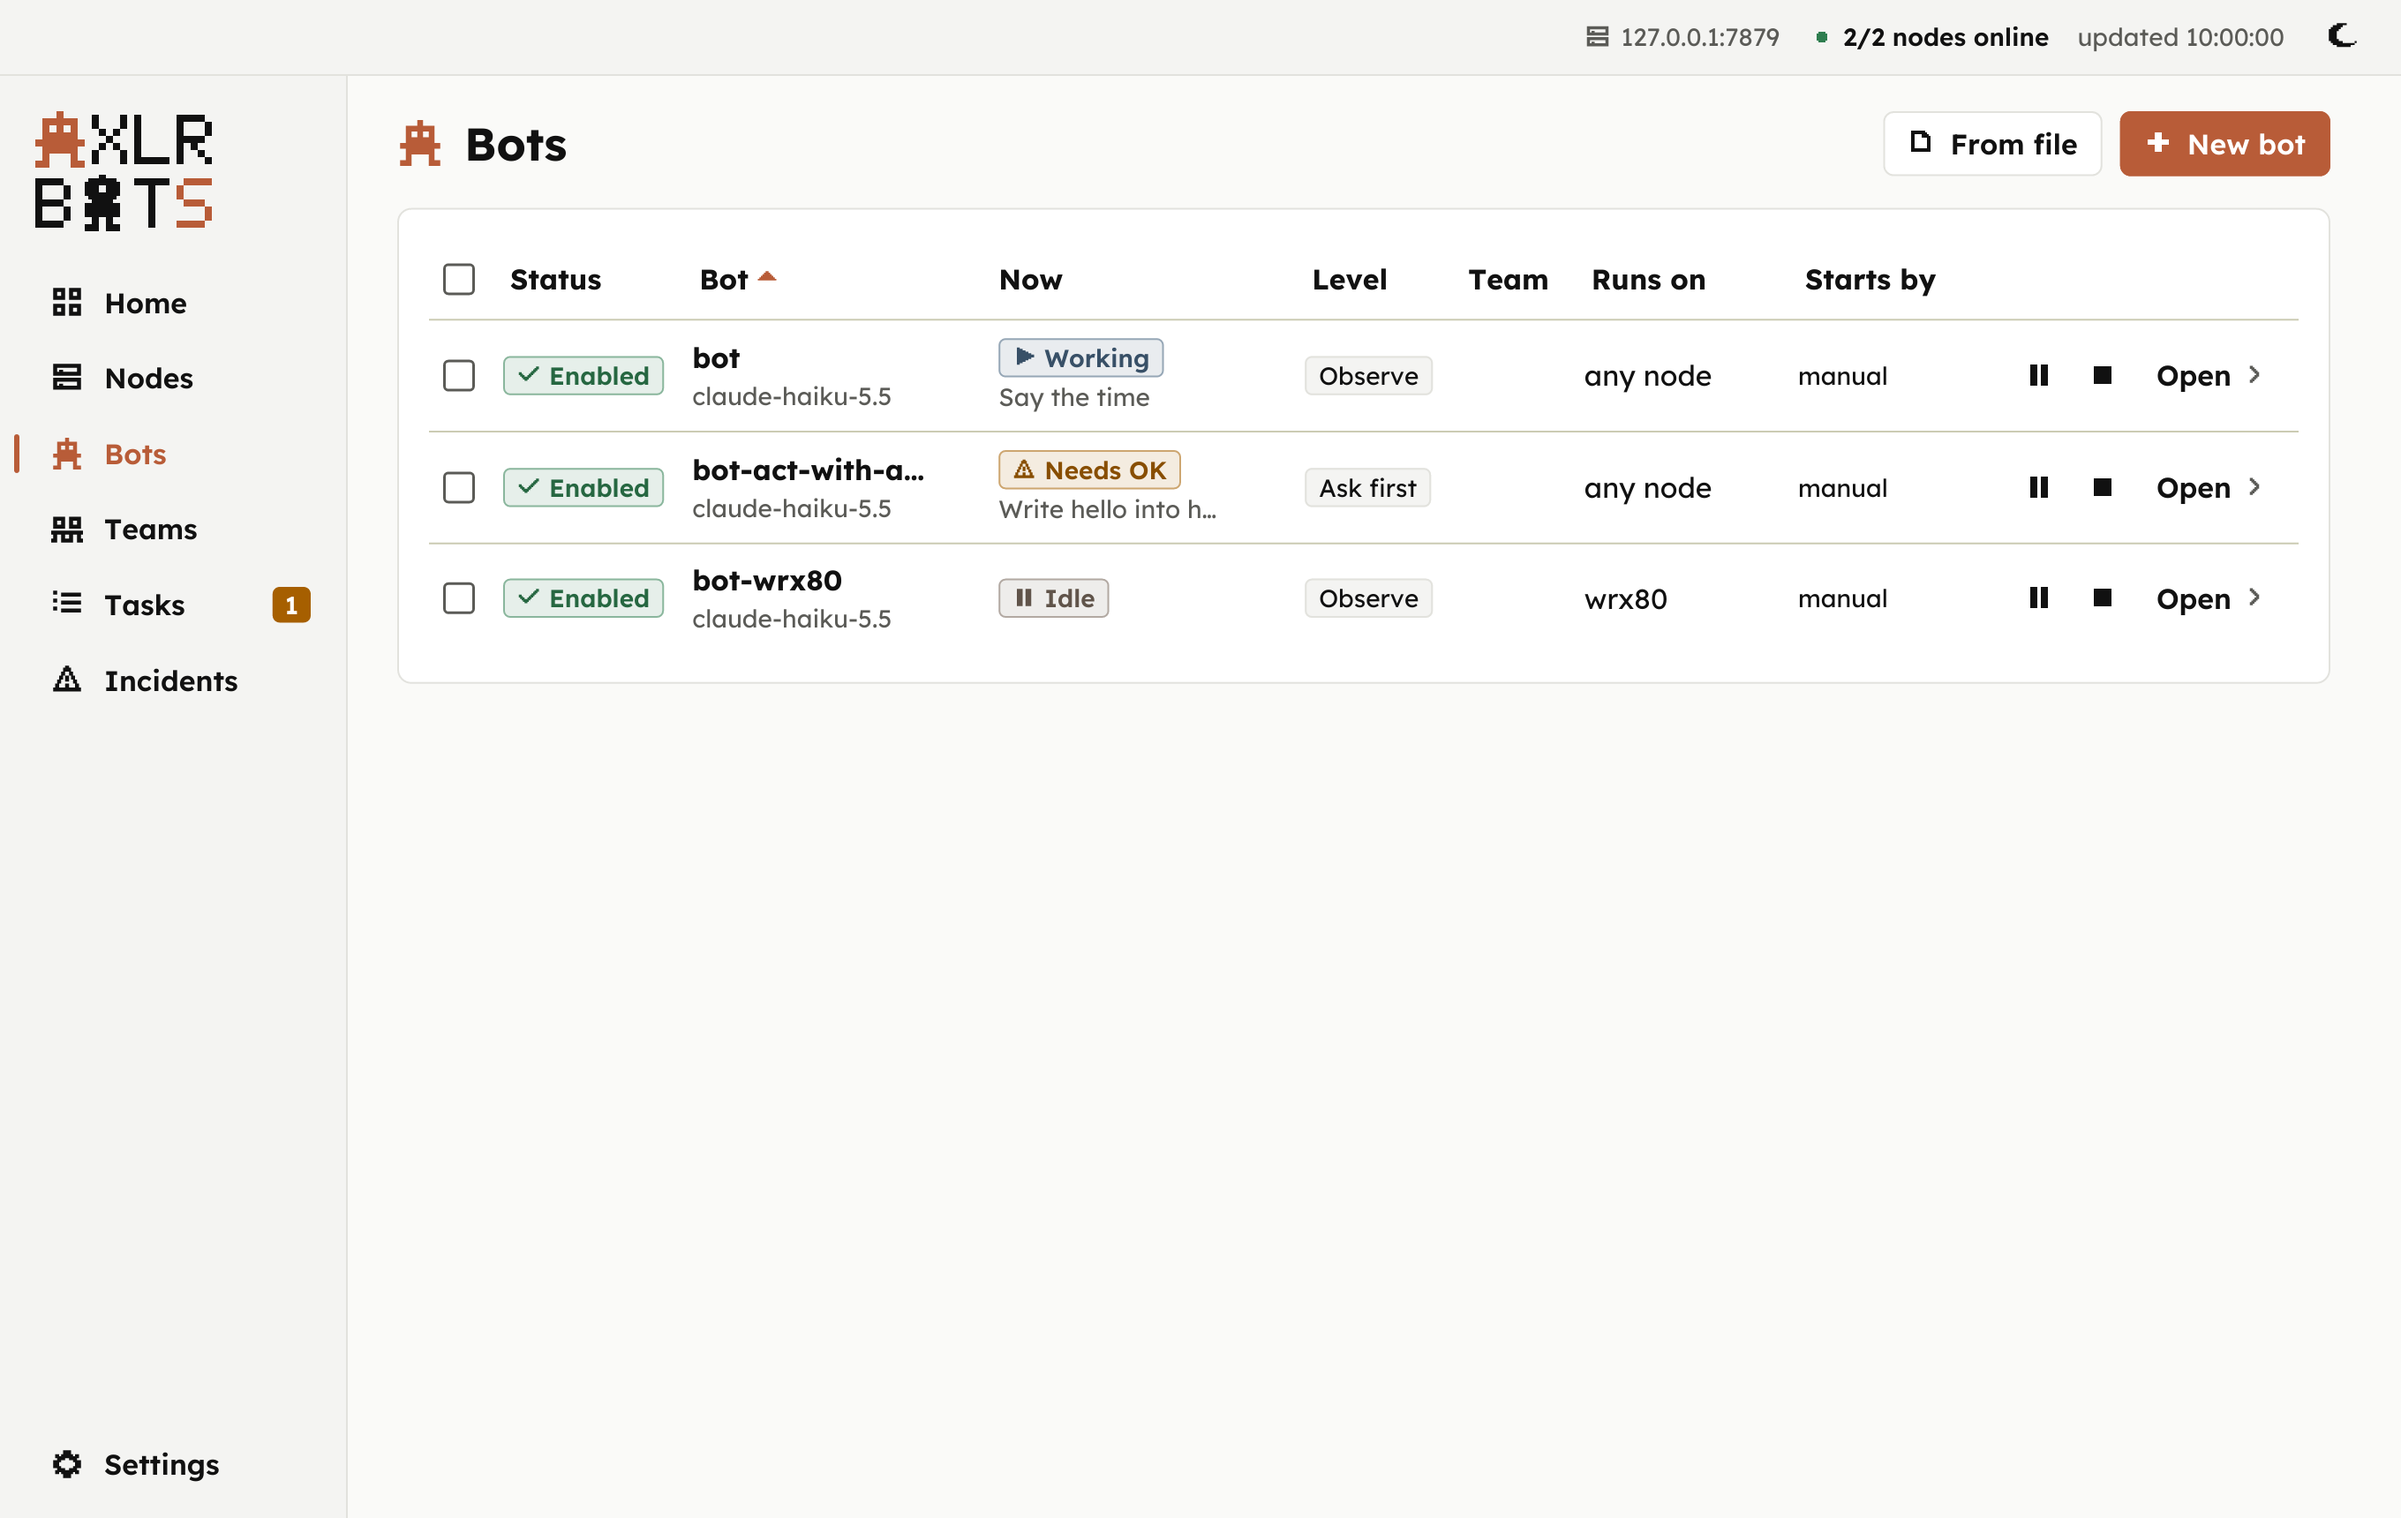
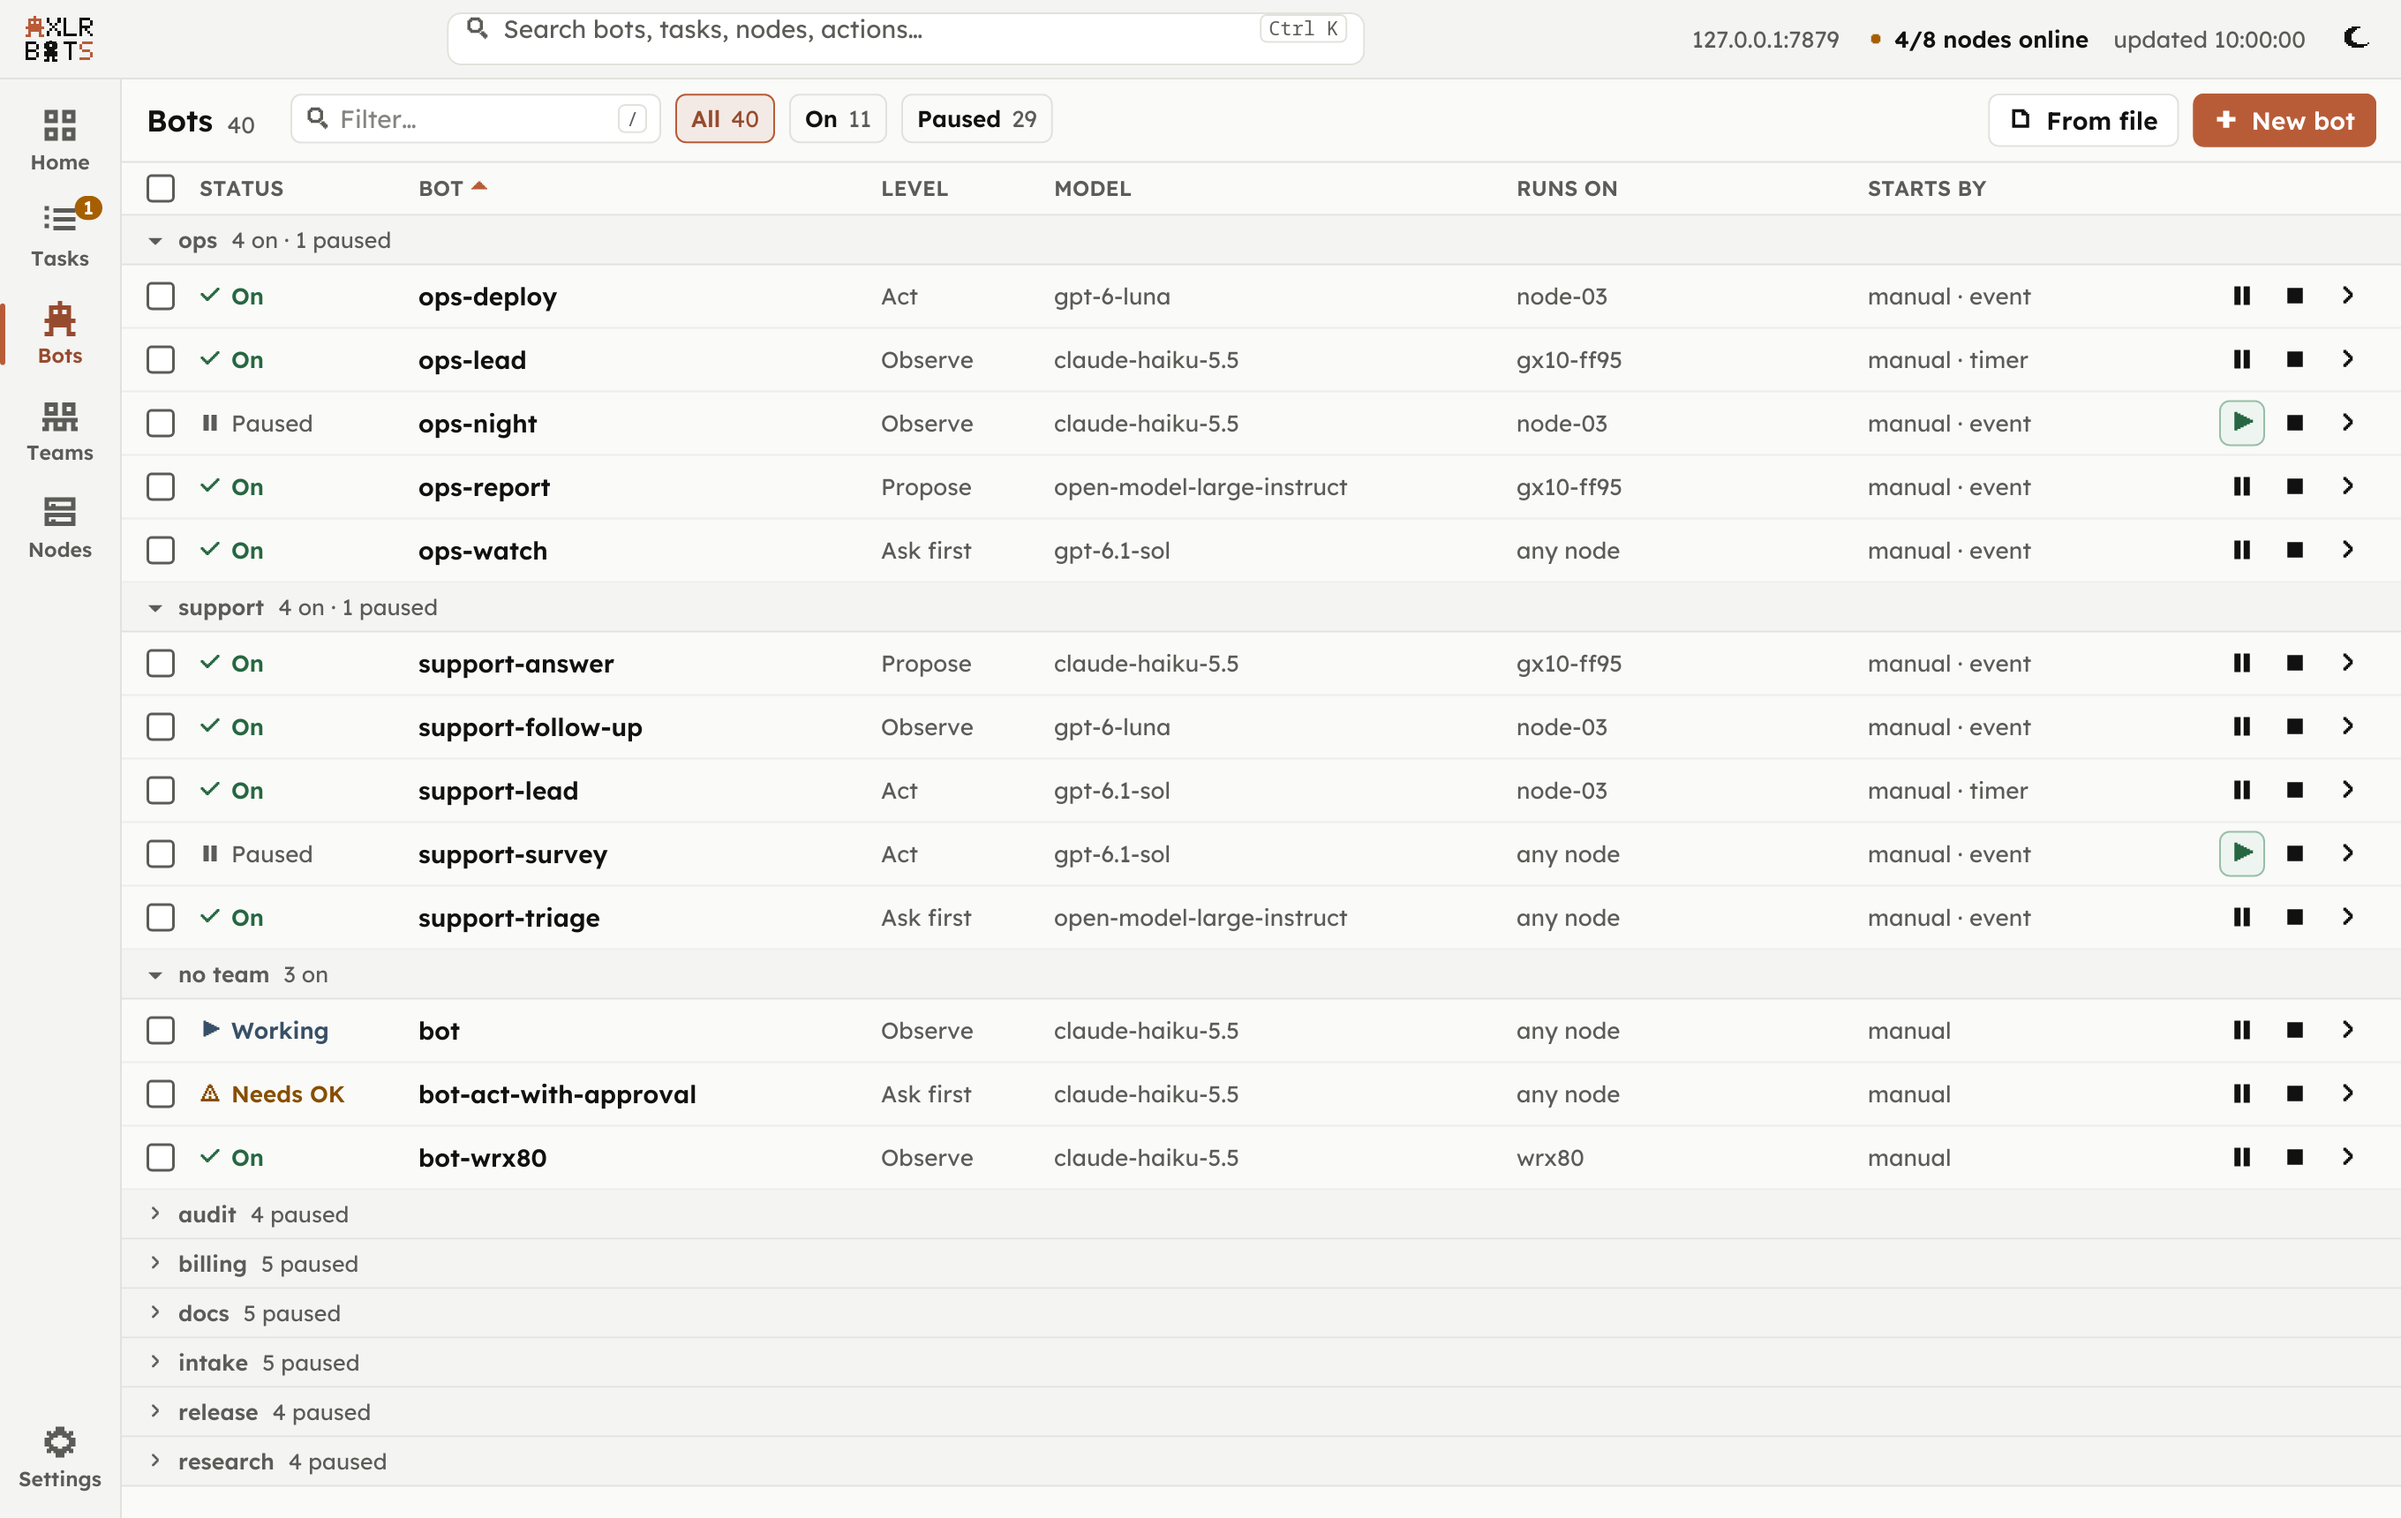
Panel docs: the screenshots are drawn again from the fleet of a real size on the new screens, with the palette and a team, and the ones of the old pages go

diff --git a/panel/src/ui/screenshot_tests.rs b/panel/src/ui/screenshot_tests.rs
@@ -1,5 +1,6 @@
-//! The README's screenshots, drawn headless from the sample bots with
-//! Iced's simulator, the panel's own typefaces and its window size.
+//! The README's screenshots, drawn headless from the fleet of a real
+//! size with Iced's simulator, the panel's own typefaces and its window
+//! size.
 //! Not part of the suite: run it to write `docs/screenshots/*.png` again
 //! (`ICED_TEST_BACKEND=tiny-skia TZ=UTC cargo test screenshots -- --ignored`).
 
@@ -13,12 +14,12 @@ use iced::Point;
 
 use super::organic::Signal;
 use super::runtime::WINDOW;
-use super::test_runtime::{connected, drive, send};
+use super::test_runtime::{drive, send};
 use super::view::tests::app_over;
 use super::view_tests::{panel_settings, turn};
 use super::*;
 use crate::adapters::fake::FakeControlPlane;
-use crate::domain::{BotId, TaskStatus, ToolRule};
+use crate::domain::{BotId, TaskStatus};
 
 /// Draws the panel as it stands, in the window's size at start (the
 /// simulator draws it at twice the pixels), and writes it as `<name>.png`.
@@ -131,85 +132,56 @@ fn bot(id: &str) -> BotId {
     BotId::new(id).unwrap()
 }
 
+/// The README's screens, from the fleet of a real size: Home, the
+/// Tasks list with its repeats folded, a long run inspected on its
+/// Activity, a task that waits for a person and one whose call
+/// publishes a post, the Bots list and a bot inspected, the Nodes, a
+/// team, the palette searching, the New bot form and the Settings,
+/// light and dark where the README shows both.
 #[test]
 #[ignore = "writes docs/screenshots; run it with --ignored"]
 fn screenshots() {
     let camera = Camera::new();
-    let mut app = connected();
+    let fake = Arc::new(FakeControlPlane::large("2026-10-25T10:00:00Z".parse().unwrap()));
+    let mut app = app_over(fake.clone());
+    send(&mut app, Message::SettingsSave);
 
     camera.both(&mut app, "overview");
-    send(&mut app, Message::Go(Screen::Nodes));
-    camera.both(&mut app, "nodes");
-    send(&mut app, Message::Go(Screen::Bots));
-    camera.both(&mut app, "bots");
-    camera.shoot(&mut app, "now-bots-light");
     send(&mut app, Message::Go(Screen::Tasks));
     camera.both(&mut app, "tasks");
 
+    // The newest task of the bot that deploys has the long run.
+    let long = {
+        let fleet = app.fleet.as_ref().unwrap();
+        fleet
+            .tasks
+            .iter()
+            .find(|t| t.bot_id.as_str() == "ops-deploy")
+            .unwrap()
+            .id
+            .clone()
+    };
+    send(&mut app, Message::RowPicked(table::RowRef::Task(long)));
+    camera.both(&mut app, "task-activity");
     let waiting = task_with(&app, TaskStatus::WaitingApproval);
     send(&mut app, Message::Go(Screen::Task(waiting)));
     camera.both(&mut app, "task-waiting");
 
-    let done = task_with(&app, TaskStatus::Completed);
-    send(&mut app, Message::Go(Screen::Task(done.clone())));
-    camera.both(&mut app, "task");
-
-    // A task and the task it delegated, with what each ran and cost.
-    let root = crate::domain::TaskId::new("task-root").unwrap();
-    let delegating = super::view_tests::delegating_activity();
-    app.screen = Screen::Task(root.clone());
-    app.tabs.task = inspector::TaskTab::Runs;
-    app.task = Some(crate::application::TaskDetail {
-        task: delegating.task.clone(),
-        executions: Vec::new(),
-        events: Vec::new(),
-    });
-    let mut tree = ActivityScreen::new(root);
-    tree.loaded(delegating);
-    app.activity = Some(tree);
-    camera.both(&mut app, "task-activity");
-    app.tabs.task = inspector::TaskTab::Activity;
-    app.apply(Message::AnswerSelecting(true));
-    camera.shoot(&mut app, "task-copy-light");
-    app.apply(Message::AnswerSelecting(false));
-
-    // The bot's own rules about the tool show under the step.
-    if let Some(b) = app
-        .fleet
-        .as_mut()
-        .unwrap()
-        .bots
-        .iter_mut()
-        .find(|b| b.id == bot("bot-wrx80"))
-    {
-        b.tool_rules.allow.push(ToolRule {
-            tool: "local_list".into(),
-            arguments: [("path".to_string(), "workspace/*".to_string())].into(),
-        });
-    }
-    send(&mut app, Message::Go(Screen::Task(done)));
-    camera.shoot(&mut app, "steps-light");
-
-    send(&mut app, Message::Go(Screen::Bot(bot("bot-wrx80"))));
-    app.apply(Message::Tab(inspector::Tab::Bot(inspector::BotTab::Rules)));
+    send(&mut app, Message::Go(Screen::Bots));
+    camera.both(&mut app, "bots");
+    send(&mut app, Message::Go(Screen::Bot(bot("ops-lead"))));
     camera.both(&mut app, "bot");
-    app.apply(Message::Tab(inspector::Tab::Bot(inspector::BotTab::Now)));
+    send(&mut app, Message::Go(Screen::Nodes));
+    camera.both(&mut app, "nodes");
+    send(&mut app, Message::Go(Screen::Teams));
+    send(&mut app, Message::Go(Screen::Team("ops".into())));
+    camera.both(&mut app, "teams");
 
-    send(&mut app, Message::Go(Screen::Bot(bot("bot"))));
-    camera.shoot(&mut app, "now-bot-light");
-
-    send(&mut app, Message::Go(Screen::Bot(bot("bot-act-with-approval"))));
-    camera.shoot(&mut app, "control-bot-light");
-    app.apply(Message::Tab(inspector::Tab::Bot(inspector::BotTab::Rules)));
-    camera.shoot(&mut app, "control-advanced-light");
-    app.apply(Message::Tab(inspector::Tab::Bot(inspector::BotTab::Now)));
-
-    send(&mut app, Message::Go(Screen::Bot(bot("bot-wrx80"))));
-    app.apply(Message::ChatInput("How many files are in the workspace?".into()));
-    send(&mut app, Message::ChatSend);
-    app.apply(Message::ChatInput("Then list the three biggest".into()));
-    camera.shoot(&mut app, "chat-light");
-    app.apply(Message::ChatInput(String::new()));
+    send(&mut app, Message::Go(Screen::Tasks));
+    send(&mut app, Message::PaletteOpen);
+    send(&mut app, Message::PaletteTyped("ops".into()));
+    camera.both(&mut app, "palette");
+    send(&mut app, Message::PaletteClose);
 
     send(&mut app, Message::Go(Screen::Bots));
     app.apply(Message::RegisterOpen);
@@ -218,8 +190,6 @@ fn screenshots() {
         "Check the free disk space on every node each hour and tell me when one falls under 10 %.".into(),
     ));
     camera.shoot(&mut app, "new-bot-light");
-    app.apply(Message::RegisterAdvanced(true));
-    camera.shoot(&mut app, "new-bot-advanced-light");
     app.apply(Message::RegisterClose);
 
     send(&mut app, Message::Go(Screen::Settings));
@@ -234,26 +204,14 @@ fn screenshots() {
     camera.shoot(&mut app, "settings-json-light");
     app.apply(Message::SettingsJsonClose);
 
-    // A message to a running task, and what its run says back.
-    let fake = Arc::new(FakeControlPlane::sample("2026-10-25T10:00:00Z".parse().unwrap()));
-    let mut app = app_over(fake.clone());
-    send(&mut app, Message::SettingsSave);
-    send(&mut app, Message::Go(Screen::Bot(bot("bot"))));
-    let running = app.running_task(&app.bot.as_ref().unwrap().bot.clone()).unwrap();
-    app.apply(Message::ChatInput("Say the date too, please.".into()));
-    let effects = app.apply(Message::ChatSend);
-    drive(&mut app, effects);
-    fake.say(&running, "OK, I will say the date too: 25 October 2026.");
-    let tick = app.now + chrono::Duration::seconds(5);
-    send(&mut app, Message::Tick(tick));
-    camera.shoot(&mut app, "live-chat-light");
-
     // A call that publishes a post: the post drawn as it would read.
     let publishing = fake.add_waiting_call(
-        "bot-act-with-approval",
-        "Propose today's post about AI news",
+        "ops-report",
+        "Propose today's post about the release",
         super::view_tests::publishing_call(),
     );
+    let refresh = app.refresh_now();
+    drive(&mut app, refresh);
     send(&mut app, Message::Go(Screen::Task(publishing)));
     camera.both(&mut app, "task-post-draft");
 }
